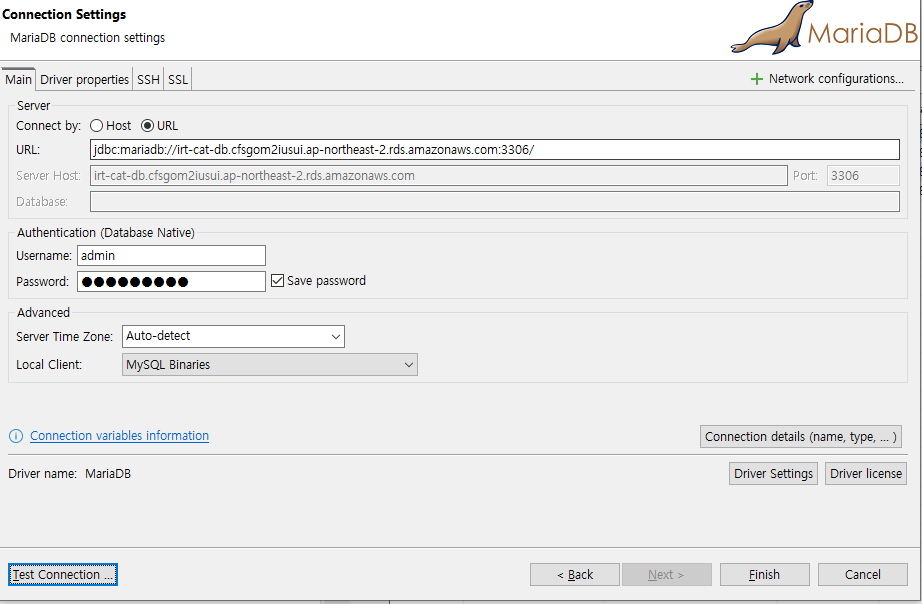
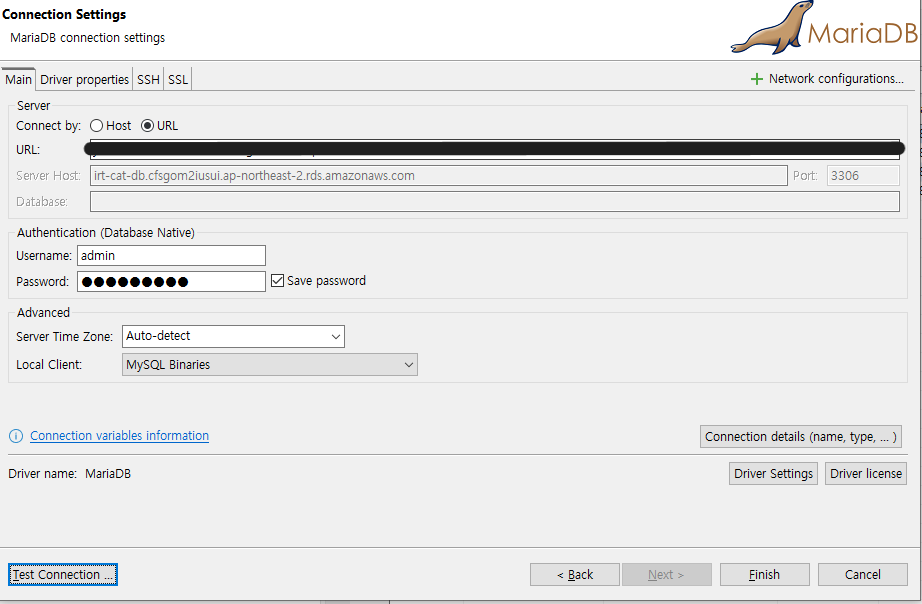
1118

Changed region(s): [[0.0911, 0.2086, 1.0, 0.2682]]

diff --git a/Personal/IRT_AWS/README.md b/Personal/IRT_AWS/README.md
@@ -4,7 +4,7 @@
 
 ### 목표
 
-1. 파이썬 패키지를 활용해 AWS 환경에 최적화된 시스템을 구축
+1. Python 패키지를 활용해 AWS 환경에 최적화된 시스템을 구축
 2. AWS QuickSight를 통해 천재교육 세미나에서 보았던 학생의 능력 수준(θ)을 시각화는 것을 직접 구현
 
    ![alt text](image.png)
@@ -18,7 +18,7 @@
 
 1. **응답 데이터**: API-gateway를 통해 post 요청을 이용하여 URL을 배포하고 직접 학생이 되었다 생각하고 정오답 데이터를 전송(RDS에 기록 적재)
 
-   - 초기엔 테블릿을 이용하여 http요청을 통해 작업하고 싶었지만 REST-API를 통해 테스트하는 방법으로 대체
+   - 초기엔 실제 테블릿을 이용하여 http요청을 통해 작업하고 싶었지만 REST-API를 통해 테스트하는 방법으로 대체
 
 2. **문제 데이터**: `edu_irt` 패키지의 데이터 생성 함수를 참고하여 필요한 문항 모수를 임의 생성하여 문제 데이터를 구성하고, 이 역시 EC2 DB에 적재
 
@@ -32,41 +32,79 @@
 
 #### 초기 버전
 
-- **평가**: 데이터 및 모델에 대한 이해 부족으로 Lambda에서 θ 값을 처리하는 과정이 구체적이지 못함.
-
   ![alt text](image-1.png)
+
+- **평가**: 
+  - 데이터 및 모델에 대한 이해 부족으로 Lambda에서 θ 값을 처리하는 과정이 구체적이지 못함. 
+  - SageMaker를 모델 학습과 이용의 목적으로 배치하였지만 구체적으로 어떻게 동작하는지 이해가 부족. 또한 Lambda와의 명확한 구분이 없음.
 
 #### 개선 버전 1
 
-- **평가**: Lambda를 활용하여 RDS에 θ 값을 저장하고 업데이트하는 구조로 변경. 초기 버전에 비해서는 구체적으로 변화하였지만 여전히 모델을 적용시키는 것에는 이해가 부족했다고 평가. 특히 람다를 어떻게 사용할지 Sagemaker에 대한 구체성이 부족하고 Sagemaker의 비용문제에 대한 고려가 부족했음.
-
   ![alt text](image-2.png)
+
+- **개선사항**
+  1. Lambda를 활용하여 RDS에 θ 값을 저장하고 업데이트하는 구조로 변경. 
+    > 단순히 데이터 전달만 하던 초기 버전과는 다르게 트리거 방식과 θ 값 적재 및 업데이트를 위한 기능 구체화.
+  2. Ec2, SageMaker endpoint를 통하여 Lambda 및 서브넷 외부의 구성요소와 연결
+  3. Ec2의 용도를 모델 학습을 위한 용도로 사용. Endpoint를 활용하여 SageMaker와 S3를 연결
+  4. 초기 버전에 비해 람다의 역할을 구체화
+
+- **평가**
+  - 람다가 θ 값을 적재하고 활용하는 것에 대한 구체성은 생겼지만 여전히 EM 알고리즘을 어떻게 적용시킬지에 대한 설명이 부족
+  - SageMaker를 통해 θ 값을 처리하는 구조이지만 초기버전과 비슷하게 EM알고리즘을 어떻게 활용하여 θ 값을 업데이트할지에 대한 이해 및 설명이 부족
+
+  
 
 #### 개선 버전 2 - AWS를 통해 실습
 
-- **시도**: SageMaker를 제거하고, Lambda 기능을 세 개의 함수로 분산하여 유지 보수성 및 비용 절감 효과를 높였다. API-gateway를 활용하여 응답데이터를 통해 θ 값을 업데이트하고 문제를 반환받은 뒤 반복하여 업데이트되는 θ 값을 RDS에 적재하는 작업까지 시도
-
-  - **InitialThetaHandler**: 학생의 초기 θ 값을 설정하여 RDS와 EC2에 저장 학생의 기본데이터를 입력하고 초기θ 값을 0으로 지정
-  - **ResponseDataHandler**: 학생의 응답을 기반으로 θ 값을 업데이트하고 새로운 문제를 선택해 반환 (응답 발생 시 호출)
-    > `edu_irt` 패키지의 모델 부분을 참고하여 3PL 모형으로 구현
-  - **CheckEndCondition**: 종료 조건을 만족할 경우 최종 θ 값을 RDS에 저장하고 결과를 정리
-
   ![alt text](image-15.png)
 
-  > 아래에서 실제 어떻게 테스트했는지 과정을 넣음.(AWS 환경 구축~)
+- **개선사항**: 
 
-* **평가**: 프로젝트 구상 초기, 세미나에서 봤던 학생 능력치 시각화는 성공, 이는 e-step만을 활용한 것으로 문항모수를 고정한 상태에서 학생 능력치만 시각화하고 있음. 문항 모수를 업데이트하거나 새로운 문제 데이터가 추가되는 상황에 대한 고려도 필요
-  - 추가고려사항
-    - 학생의 입력정보를 어떻게 체계적으로 관리할까
-    - 새로운 문제를 어떻게 다룰까
-    - 문제를 출제하는 입장에서 어떻게 문제를 편하게 넣을 수 있을까? - 개발자 입장이 아닌 출제자 입장에서 생각해보기
+  1. SageMaker를 제거
+    - 해당 실습에서는 모델 학습에 대한 부분이 필요한 것이 아니기에 SageMaker를 사용하는 것은 과하다고 판단 => Lambda를 통해 알고리즘을 구현하고자 함.
+  2. Lambda를 세 개로 분산하여 구성
+    - 기존의 한개의 Lambda에서 처리하려던 θ 값 초기 설정 및 업데이트와 SageMaker를 활용해 θ 값을 추정하는 것을 Lambda를 통해 구현
+      > 기존 SageMaker를 활용하던 것에 비해 비용 절감의 효과와 Lambda를 분산하는 것을 통해 유지 보수에 있어서 유리해졌다.
 
-## AWS 환경 구축
+      **Lambda**
+      - **InitialThetaHandler**: 학생의 초기 θ 값을 설정하여 RDS와 EC2에 저장 학생의 기본데이터를 입력하고 초기θ 값을 0으로 지정
+      - **ResponseDataHandler**: 학생의 응답을 기반으로 θ 값을 업데이트하고 새로운 문제를 선택해 반환 (응답 발생 시 호출)
+
+        > `edu_irt` 패키지의 모델 부분을 참고하여 3PL 모형으로 구현
+
+      - **CheckEndCondition**: 종료 조건을 만족할 경우 최종 θ 값을 RDS에 저장하고 결과를 정리(10문제를 풀거나 θ 값이 일정하게 유지되는 경우)
+  
+  3. 데이터 저장 방식
+
+    - 기존 문제은행, 학생 데이터를 전부 RDS에 저장하던 것과는 다르게 Ec2 Maria DB와 RDS MariaDB에 나누어 저장
+      - Ec2 Maria DB : 문제 은행데이터, θ로그(다음 문제 추천을 위함) => 문제 데이터
+      - RDS MariaDB : 학생의 문제를 푼 θ history(문제 id와 학생의 id가 전부 기록) => 학생 데이터
+
+      > 분산 이유 
+        - 대량의 문제를 적재해야하고 ResponseDataHandler를 통해 다음 문제 추천을 위한 θ값까지 적재가 필요한 상황이었기에 비용적으로 더 효율적일 것이라 판단
+        - 수업에서 배운 Ubundu 환경에서 Maria DB를 설치하고 실제 데이터를 적재하여 출력하는 과정을 구현해보고 싶었음.
+
+  4. API-gateway를 활용하여 응답데이터를 통해 θ 값을 업데이트하고 문제를 반환받은 뒤 반복하여 업데이트되는 θ 값을 RDS에 적재하는 작업까지 시도(실제 동작하는 기능구현)
+
+* **평가**: 
+
+  - 프로젝트 구상 초기, 세미나에서 봤던 학생 능력치 시각화는 성공. 그러나 이는 e-step만을 활용한 것으로 문항모수를 고정한 상태에서 학생 능력치만 시각화하고 있음. 
+    > 문항 모수 추정에 대한 개선이 필요함.
+      - 학생 데이터가 누적됨에 따라 기존 문제에 대한 문항모수 업데이트
+      - 새로 출제되는 문제에 대한 초기 문항 모수 설정 및 관리
+
+    **추가고려사항**
+      - 학생의 입력정보를 어떻게 체계적으로 관리할 것인가?
+      - 새로운 문제를 어떻게 다룰 수 있는가?
+      - 문제를 출제하는 입장에서 어떻게 문제를 편하게 넣을 수 있는가 - 개발자 입장이 아닌 출제자 입장에서 생각해보기
+        > 문제의 형태 및 이를 적재하는 방식에 대한 고려 필요
+
+## AWS 환경 구축(실습 - 개선 버전 2를 활용)
 
 ### VPC 설정
 
-- Public 및 Private으로 서브넷을 나누어 10.0.100.0/24와 10.0.101.0/24로 설정했다.
-  > 사용가능한 포트로서 100, 101을 선정
+- Public 및 Private 서브넷의 네트워크 대역으로 각각 10.0.100.0/24와 10.0.101.0/24를 설정
 
 ### RDS 설정
 
@@ -74,7 +112,10 @@
 - 데이터베이스에 예시 데이터를 적재 후 DBeaver로 연결 확인을 완료했다.
 
   ![alt text](image-5.png)
+  > 엔드포인트 주소는 전체 공개를 위해 미공개처리
+
   ![alt text](image-25.png)
+
 
 ### Lambda 설정
 
@@ -150,20 +191,32 @@
 
 ![alt text](image-38.png)
 
-### 추가된 구성요소
+### 개선사항
 
-- **Lambda Functions**
+- **Lambda** 추가
 
   - `InitialItemParameterSetup`
   - `InitialThetaHandler`
 
-- **EC2 인스턴스**
+- **EC2 인스턴스** 추가
 
   - **베이지안 사전 추론용**
   - **문항 모수 동적 업데이트용**
 
+  **EC2 인스턴스를 3개로 구성한 이유**
+    1. 역할에 따른 분리
+      - DB용 EC2, 초기 문항 모수 추론, 문항 모수 동적 업데이트 이렇게 3가지 역할을 수행해야 함.
+        > 각 역할별 트리거 방식이 다르고 관리의 용이성을 위해 분리
+    2. CPU 효율을 위함
+      - 베이지안 초기 모수 추정이나 문항 모수 업데이트는 CPU 및 메모리가 많이 필요한 작업. 반면 DB는 I/O 성능에 의존.
+      - 인스턴스 분리를 통해 필요한 메모리, CPU, 디스트를 독립적으로 조정할 수 있음.
+    3. 장애 상황에 대한 방지
+      - 초기 문항 모수 추론, 문항 모수 동적 업데이트 작업 중 오류가 발생했을 때 DB까지 오류가 발생한다면 서비스 자체에 문제가 생김.
+      - 인스턴스 분리를 통하여 문항 모수 작업 중 장애가 발생해도 DB는 상대적으로 안정성을 높이는데 유리.
+
 - **S3**
   - 출제자의 문제데이터 저장용
+    > 아키텍처에는 문제의 형식, 종류 등에 따라 다르게 적재할 필요가 있다고 생각하여 임의로 버킷을 3개로 구성. 추후 실제 문제 관리 방식에 따라 개선필요.
 
 ### 개선 버전 2와의 차이
 
